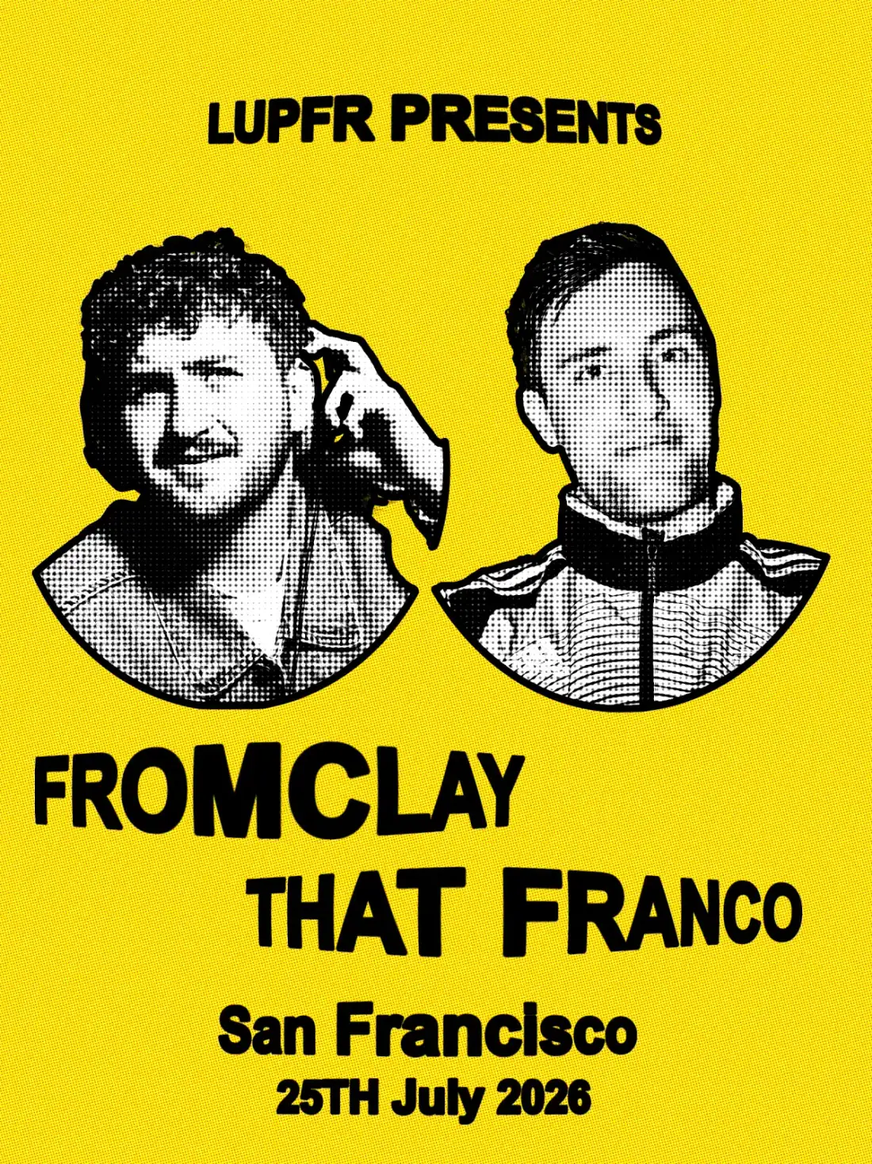
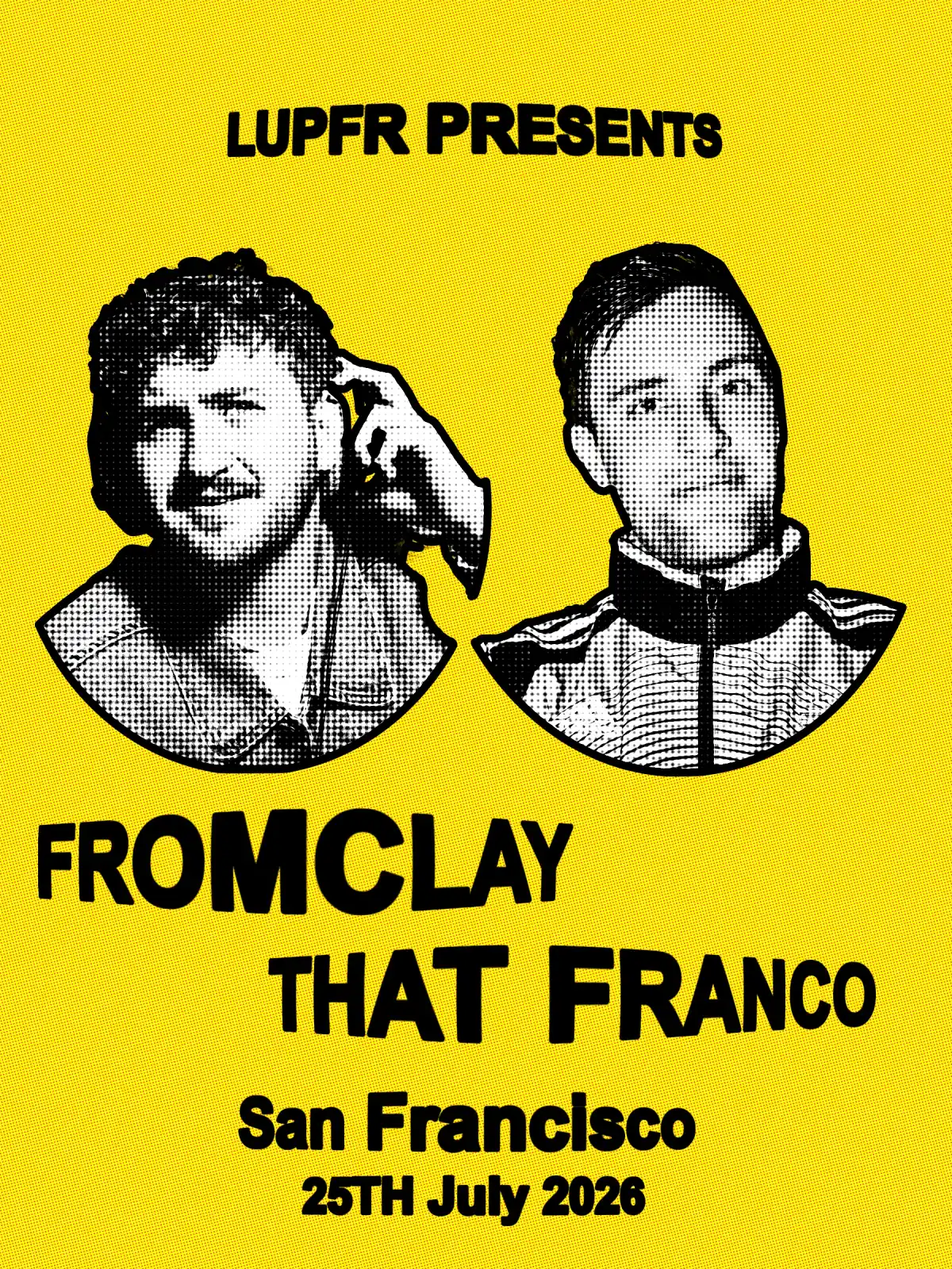
feat(site): refresh July 24 owner zip assets and card optimize floors
Apply curated WebP refreshes from the July 24 website update package (seaside gallery, partners, key event posters, Partiful tile) and allow denser poster re-encodes under the 450KB card budget.

diff --git a/tests/unit/optimize-public-raster-floors.test.ts b/tests/unit/optimize-public-raster-floors.test.ts
@@ -1,0 +1,13 @@
+import { readFileSync } from "node:fs"
+import { join } from "node:path"
+import { describe, expect, it } from "vitest"
+
+describe("optimize-public-raster card reencode floors", () => {
+  it("steps quality to 40 and width to 800 before giving up on card budget", () => {
+    const src = readFileSync(join(process.cwd(), "scripts/optimize-public-raster.mjs"), "utf8")
+    expect(src).toMatch(/if \(quality > 40\)/)
+    expect(src).toMatch(/if \(maxWidth > 800\)/)
+    expect(src).toMatch(/CARD_MAX_BYTES = 450_000/)
+    expect(src).toMatch(/CARD_MAX_WIDTH = 1600/)
+  })
+})

diff --git a/docs/CHANGELOG.md b/docs/CHANGELOG.md
@@ -12,6 +12,8 @@ All notable project changes are recorded here.
 
 ### Changed
 
+- **July 24 website asset refresh (owner zip):** refreshed curated WebPs from `LUPFR WEBSITE updates_july24` — artists, event posters, brand cards + SEA//SIDE gallery 1–6, team portraits, corporate partners (incl. Partiful/SEA//SIDE/Umbrella), Partiful announcement tile, and services imagery. Path-stable YAML. Optimize card re-encode can step quality/width further so dense posters (e.g. marina_music) stay ≤450KB. Deferred: VIEW DECK slides, raw hero MP4, uploads/screenshots.
+
 - **Partiful team-band art (owner request 2026-07-23):** `/images/partiful-announcement.webp` no longer uses the fromclay event flyer — swapped to a Partiful P mark on a dark gold stage so the “Backed by Partiful” band reads as partnership, not a show poster. `docs/DESIGN.md` updated in the same change.
 
 - **Partiful visibility + HD mobile hero (owner request 2026-07-23):** Partiful partner marks punch out baked black backgrounds (transparent freeform) and scale up in the strip; mobile hero uses a sharper yacht still (`hero-poster-yacht-mobile.webp` ~1600px) then fades in the same full-quality yacht MP4 after `window` load + idle (skipped for `prefers-reduced-motion` so the mobile perf gate stays poster-only). Team “Backed by Partiful” band unchanged. `docs/DESIGN.md` updated in the same change.
